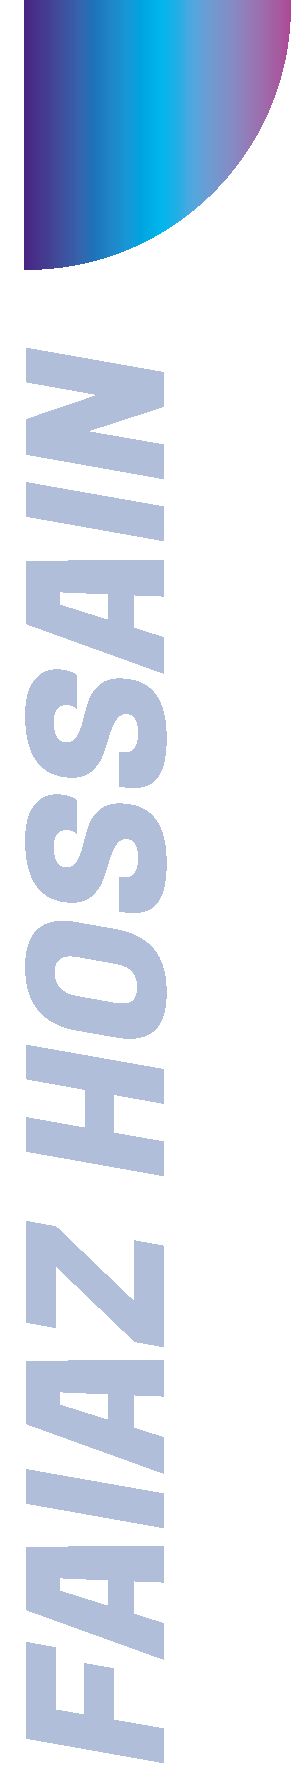
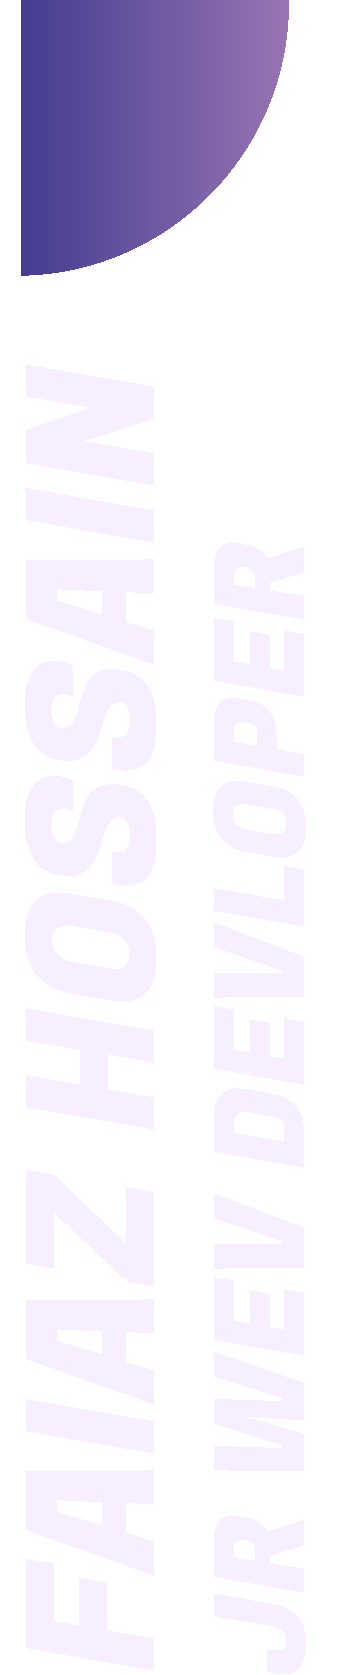
done with first div

diff --git a/index.html b/index.html
@@ -13,8 +13,8 @@
     />
   </head>
   <body>
-    <section>
-      <div class="container-blog">
+    <section class="top-banner">
+      <div class="container-blog blog-info">
         <h1 class="welcome">Welcome To</h1>
         <h2 class="welcome">
           <span class="name">Faiaz Hossain's</span> Portfolio!
@@ -24,12 +24,21 @@
           I am <span>FAIAZ HOSSAIN</span>, an undergrad student of North South
           University. I have a strong knowledge about HTML, CSS and Javascript
           and also in progress with learning complete web development from
-          <span>JHANKAR MAHBUB</span> Bhaia. Hope to become a complete web
-          Developer after the completion of the Course.
+          <span>PROGRAMMING HERO</span>. Hope to become a complete web Developer
+          after the completion of the Course. My hobby is playing cricket and
+          soccer & the picture you are watching in the right side is for being
+          the MVP for my team.
         </p>
+
+        <a
+          href="https://www.linkedin.com/in/faiaz-hossain-7b6b12209/"
+          target="_blank"
+          class="link-button"
+          >HIRE ME</a
+        >
       </div>
       <div class="container-blog">
-        <img src="/showOff/trophy.png" alt="" class="trophy-img" />
+        <img src="/showOff/suited wb.png" alt="" class="trophy-img" />
       </div>
     </section>
   </body>

diff --git a/style.css b/style.css
@@ -1,6 +1,9 @@
 @import url("https://fonts.googleapis.com/css2?family=Lobster&family=Lobster+Two&display=swap");
 @import url("https://fonts.googleapis.com/css2?family=Lato&display=swap");
-
+* {
+  margin: 0;
+  box-sizing: border-box;
+}
 body {
   font-family: "Lato", sans-serif;
   font-size: 20px;
@@ -10,6 +13,13 @@ body {
   font-size: 52px;
   color: blueviolet;
 }
+.top-banner {
+  background-image: url(images/top-banner.png);
+  background-repeat: no-repeat;
+  background-size: 60px 300px;
+  background-origin: padding-box;
+}
+
 h1,
 h2,
 h3 {
@@ -19,16 +29,40 @@ h3 {
 span {
   color: blueviolet;
 }
+p {
+  text-align: justify;
+}
 .welcome {
   font-family: "Lobster Two", cursive;
 }
 .container-blog {
-  width: 50%;
+  width: 100%;
   padding-left: 10%;
 }
+.blog-info {
+  display: flex;
+  flex-direction: column;
+  gap: 30px;
+  margin-top: 30px;
+}
 .container-blog img {
-  width: 80%;
+  width: 90%;
 }
 section {
   display: flex;
+}
+
+.link-button {
+  text-decoration: none;
+  background-image: linear-gradient(
+    190deg,
+    rgb(157, 0, 255),
+    rgb(68, 37, 180),
+    rgb(157, 0, 255)
+  );
+  color: white;
+  padding: 8px 32px;
+  border-radius: 10px;
+  font-weight: 700;
+  width: 25%;
 }
